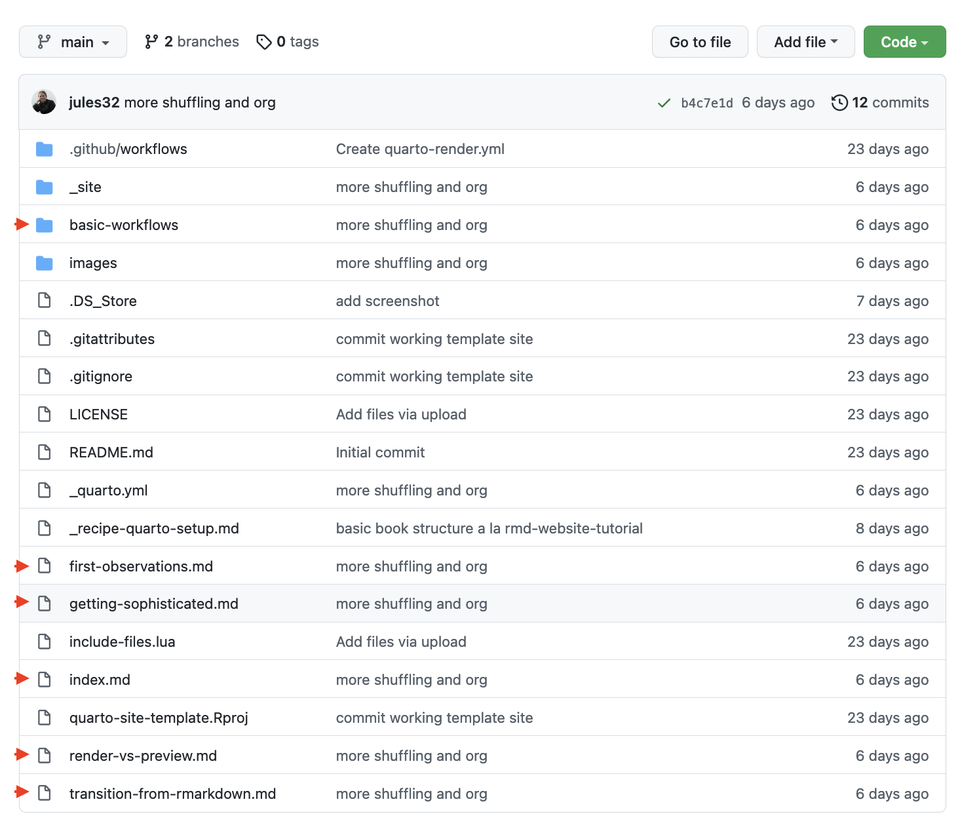
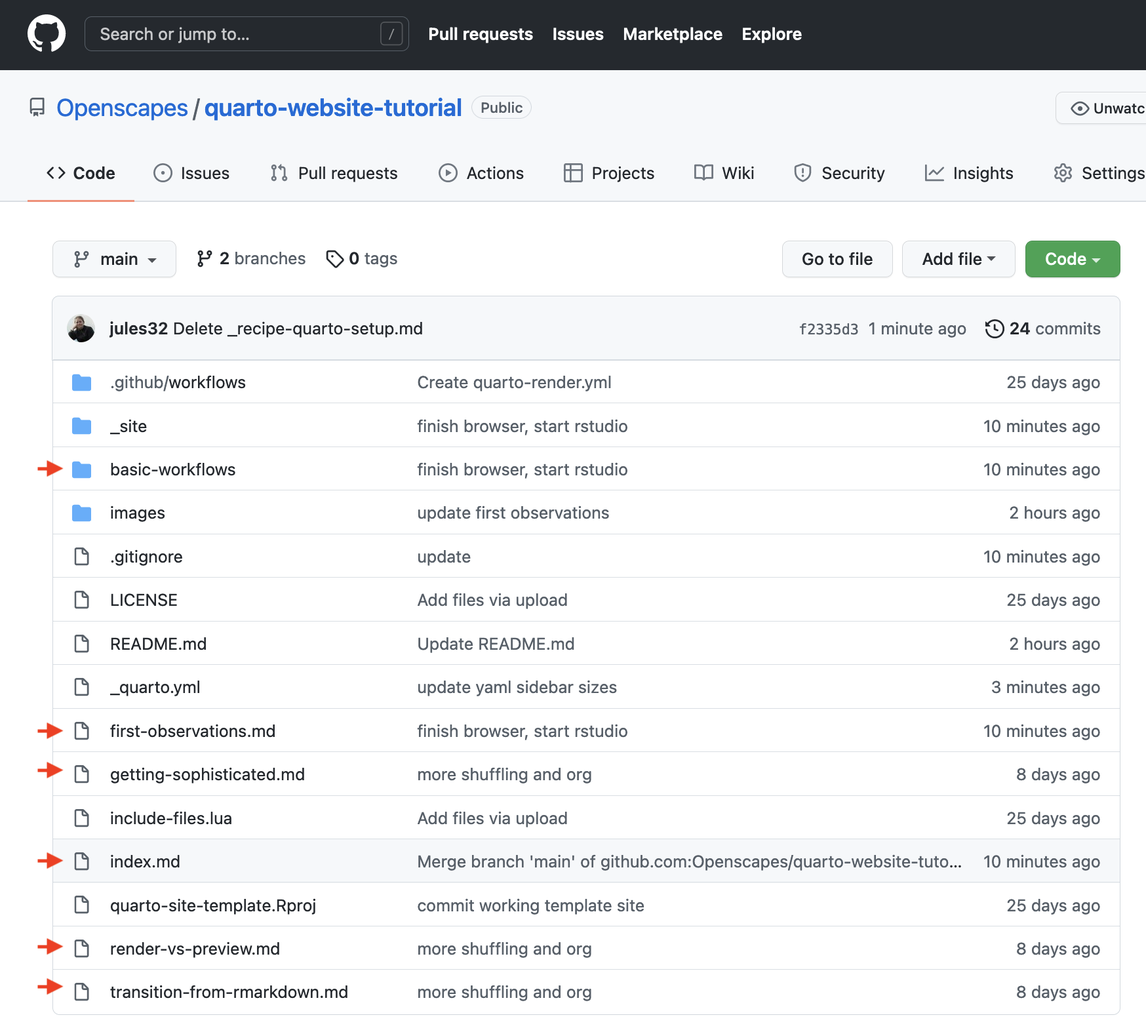
reshuffle org

diff --git a/_site/quarto-overview.html b/_site/quarto-overview.html
@@ -3,9 +3,7 @@
   <meta charset="utf-8">
   <meta name="generator" content="quarto-0.9.17">
   <meta name="viewport" content="width=device-width, initial-scale=1.0, user-scalable=yes">
-  <meta name="author" content="Openscapes">
-  <meta name="dcterms.date" content="2022-02-27">
-  <title>Making open-source documents with Quarto</title>
+  <title>Making open-source documents with Quarto - Quarto Overview</title>
   <style>
     code{white-space: pre-wrap;}
     span.smallcaps{font-variant: small-caps;}
@@ -21,7 +19,8 @@
   <script src="site_libs/quarto-search/autocomplete.umd.js"></script>
   <script src="site_libs/quarto-search/fuse.min.js"></script>
   <script src="site_libs/quarto-search/quarto-search.js"></script>
-  <link href="./first-observations.html" rel="next">
+  <link href="./basic-workflows/browser.html" rel="next">
+  <link href="./first-observations.html" rel="prev">
   <script src="site_libs/quarto-html/quarto.js"></script>
   <script src="site_libs/quarto-html/popper.min.js"></script>
   <script src="site_libs/quarto-html/tippy.umd.min.js"></script>
@@ -61,7 +60,7 @@
   <header id="quarto-header" class="headroom fixed-top">
   <nav class="quarto-secondary-nav" data-bs-toggle="collapse" data-bs-target="#quarto-sidebar" aria-controls="quarto-sidebar" aria-expanded="false" aria-label="Toggle sidebar navigation" onclick="if (window.quartoToggleHeadroom) { window.quartoToggleHeadroom(); }">
     <div class="container-fluid d-flex justify-content-between">
-      <h1 class="quarto-secondary-nav-title">Making open-source documents with Quarto</h1>
+      <h1 class="quarto-secondary-nav-title">Quarto Overview</h1>
       <button type="button" class="quarto-btn-toggle btn">
         <i class="bi bi-chevron-right"></i>
       </button>
@@ -92,7 +91,7 @@
     <ul class="list-unstyled mt-1">
         <li class="sidebar-item">
   <div class="sidebar-item-container"> 
-  <a href="./index.html" class="sidebar-item-text sidebar-link active">Welcome</a>
+  <a href="./index.html" class="sidebar-item-text sidebar-link">Welcome</a>
   </div>
 </li>
         <li class="sidebar-item">
@@ -102,7 +101,7 @@
 </li>
         <li class="sidebar-item">
   <div class="sidebar-item-container"> 
-  <a href="./quarto-overview.html" class="sidebar-item-text sidebar-link">Quarto Overview</a>
+  <a href="./quarto-overview.html" class="sidebar-item-text sidebar-link active">Quarto Overview</a>
   </div>
 </li>
         <li class="sidebar-item sidebar-item-section">
@@ -153,52 +152,49 @@
         <nav id="TOC" role="doc-toc">
 <h2 id="toc-title">On this page</h2>
 <ul>
-<li><a href="#welcome" class="nav-link active" data-scroll-target="#welcome">Welcome</a>
-<ul class="collapse">
-<li><a href="#example-quarto-websites" class="nav-link" data-scroll-target="#example-quarto-websites">Example Quarto websites</a>
-<ul class="collapse">
-<li><a href="#inspiration" class="nav-link" data-scroll-target="#inspiration">Inspiration</a></li>
-</ul></li>
-<li><a href="#about" class="nav-link" data-scroll-target="#about">About</a></li>
-</ul></li>
+<li><a href="#quarto-basic-workflow" class="nav-link active" data-scroll-target="#quarto-basic-workflow">Quarto basic workflow</a></li>
+<li><a href="#quarto.yml" class="nav-link" data-scroll-target="#quarto.yml"><code>_quarto.yml</code></a></li>
+<li><a href="#next-up-workflows" class="nav-link" data-scroll-target="#next-up-workflows">Next up: workflows</a></li>
 </ul>
-<div class="toc-actions"><div><i class="bi bi-github"></i></div><div class="action-links"><p><a href="https://github.com/openscapes/series/edit/main/index.md" class="toc-action">Edit this page</a></p><p><a href="https://github.com/openscapes/series/issues/new" class="toc-action">Report an issue</a></p></div></div></nav>
+<div class="toc-actions"><div><i class="bi bi-github"></i></div><div class="action-links"><p><a href="https://github.com/openscapes/series/edit/main/quarto-overview.md" class="toc-action">Edit this page</a></p><p><a href="https://github.com/openscapes/series/issues/new" class="toc-action">Report an issue</a></p></div></div></nav>
     </div>
 <!-- main -->
 <main class="content" id="quarto-document-content">
 <header id="title-block-header">
-<h1 class="title d-none d-lg-block display-7">Making open-source documents with Quarto</h1>
-<p class="subtitle lead">Create &amp; publish tutorials, onboarding docs, and much more</p>
-<p class="author">Openscapes</p>
-<p class="date">February 27, 2022</p>
+<h1 class="title d-none d-lg-block display-7">Quarto Overview</h1>
 </header>
 
-<section id="welcome" class="level1">
-<h1>Welcome</h1>
-<p>It’s possible to create beautiful documentation to share online with <a href="https://quarto.org">Quarto</a> that auto-updates with <a href="http://github.com">Github</a>. This is very new and incredibly cool. This tutorial is an example of a quarto website — it is a really powerful way to create and share tutorials, onboarding documentation, and so much more. You can communicate about science using the same reproducible workflow you and/or your colleagues use for analyses, whether or not you yourself write code.</p>
-<p>Creating websites with quarto can be done without knowing R, Python or HTML, CSS, etc, and that’s where we’ll start. However, Quarto integrates with these tools so you can make your websites as complex and beautiful as you like as you see examples and reuse and remix from others in the open movement. This tutorial borrows heavily from a lot of great tutorials and resources you should check out too – there are links throughout.</p>
-<section id="example-quarto-websites" class="level2">
-<h2 class="anchored" data-anchor-id="example-quarto-websites">Example Quarto websites</h2>
-<p>We so far have been using Quarto for documentation using Markdown and Jupyter Notebooks.</p>
-<ul>
-<li><a href="https://openscapes.github.io/series">Champions Lessons Series</a></li>
-<li><a href="https://openscapes.github.io/approach-guide/">Openscapes Approach Guide</a><br>
-</li>
-<li><a href="https://nasa-openscapes.github.io/2021-Cloud-Hackathon/">2021 NASA Cloud Hackathon</a></li>
-</ul>
-<p>See many more examples at the <a href="https://quarto.org/docs/gallery/">quarto gallery</a>!</p>
-<section id="inspiration" class="level3">
-<h3 class="anchored" data-anchor-id="inspiration">Inspiration</h3>
-<p>Are you making onboarding documentation? Check out <a href="https://thefaylab.github.io/lab-manual/">The Fay Lab Manual</a> for inspiration on structure - you could also start there and make it your own.</p>
+<p><a href="https://quarto.org">Quarto.org</a> has great documentation, including and <a href="https://quarto.org/docs/get-started/hello/jupyter.html">tutorials</a> that can help you get started using Jupyter, RStudio, VSCode and Editor. Here, we’ll introduce Quarto using our copy of this tutorial, and then show basic workflows using different tools: from the GitHub browser, RStudio, and Jupyter.</p>
+<section id="quarto-basic-workflow" class="level2">
+<h2 class="anchored" data-anchor-id="quarto-basic-workflow">Quarto basic workflow</h2>
+<p>Developing your quarto site will have the same basic workflow, no matter which tool you use to edit. It is very iterative.</p>
+<ol type="1">
+<li>Create content (text, code, images, etc) in a file. Supported files include <code>.md</code>, <code>.Rmd</code>, <code>.qmd</code>, <code>.ipynb</code>…</li>
+<li>Update <code>_quarto.yml</code> as needed (for example, if you’ve created a new file you’d like included in your site)</li>
+<li>Quarto Render individual files and/or the whole website (if editing from the browser this step will not be separate but combined with Step 5)</li>
+<li>Repeat, repeat, repeat</li>
+<li>Commit and push your website to GitHub, your updates will publish automatically! (if editing from the brower, only commit - no need to push)</li>
+<li>Repeat all of the above</li>
+</ol>
 </section>
+<section id="quarto.yml" class="level2">
+<h2 class="anchored" data-anchor-id="quarto.yml"><code>_quarto.yml</code></h2>
+<p>There is also a <code>_quarto.yml</code> file, which is the website’s configuration file. It is a directory of the order that the pages/chapters will be in. This is where you update the organization of your website, while you update the content of those pages in the specific file. If we compare side-by-side, you’ll see that the pages that appear on our website are listed there.</p>
+<div class="quarto-figure quarto-figure-center">
+<figure class="figure">
+<p><img src="images/quarto-yml-site-side-by-side.png" class="img-fluid figure-img" alt="_quarto.yml and website side-by-side" style="width:95.0%"></p>
+<p></p><figcaption aria-hidden="true" class="figure-caption"><code>_quarto.yml</code> and website side-by-side</figcaption><p></p>
+</figure>
+</div>
+<p>This type of file (<code>.yml</code> or <code>.yaml</code>) is written in YAML (“Yet Another Markup Language”). You’ll be able to shift the arrangement of webpages by reordering/adding/deleting them in the <code>_quarto.yml</code> file following the patterns you see in this example. As you modify <code>_quarto.yml</code>, the most important thing to know is that <strong>spacing matters</strong>. Pay attention to whether text is indented by one, two, four, or other spaces, and make sure you follow it; if your site is not looking as expected it is likely a silent error in your YAML. Some text editors like RStudio provide debugging support for YAML and are highly recommended to save you hours of debugging time.</p>
+<p>Note that there are multiple ways in the <code>_quarto.yml</code> for you to include a file in your website.</p>
 </section>
-<section id="about" class="level2">
-<h2 class="anchored" data-anchor-id="about">About</h2>
-<p><a href="https://openscapes.org">Openscapes</a> is about better science for future us. We help researchers reimagine data analysis, develop modern skills that are of immediate value to them, and cultivate collaborative and inclusive research teams as part of the broader global open movement.</p>
-<p>We’re developing this tutorial to help folks of different technical skills use <a href="https://quarto.org">quarto</a> for documentation and tutorial building. This tutorial was originally created for two different audiences: <a href="https://nasa-openscapes.github.io">NASA-Openscapes</a> researcher support engineers and communications directors at organizations promoting open science.</p>
+<section id="next-up-workflows" class="level2">
+<h2 class="anchored" data-anchor-id="next-up-workflows">Next up: workflows</h2>
+<p>In the next sections we’ll see what this workflow looks like using different tools for editing your files. We’ll start off from the browser so you don’t need to install any additional software, however this approach is very limited and you will soon outgrow its capabilities. See all the tools that are supported at <a href="https://quarto.org/docs/get-started/" class="uri">https://quarto.org/docs/get-started/</a>.</p>
+<p><strong>If you don’t already have a workflow and to edit files and sync to GitHub from your computer, I recommend RStudio.</strong> You don’t need to know R to use RStudio, and it has powerful editor features that make for happy workflows.</p>
 
 
-</section>
 </section>
 </main> <!-- /main -->
 <script type="application/javascript">
@@ -376,10 +372,13 @@ window.document.addEventListener("DOMContentLoaded", function (event) {
 </script>
 <nav class="page-navigation">
   <div class="nav-page nav-page-previous">
+      <a href="./first-observations.html" class="pagination-link">
+        <i class="bi bi-arrow-left-short"></i> <span class="nav-page-text">First Observations</span>
+      </a>          
   </div>
   <div class="nav-page nav-page-next">
-      <a href="./first-observations.html" class="pagination-link">
-        <span class="nav-page-text">First Observations</span> <i class="bi bi-arrow-right-short"></i>
+      <a href="./basic-workflows/browser.html" class="pagination-link">
+        <span class="nav-page-text">From the Browser</span> <i class="bi bi-arrow-right-short"></i>
       </a>
   </div>
 </nav>

diff --git a/_site/first-observations.html b/_site/first-observations.html
@@ -3,7 +3,7 @@
   <meta charset="utf-8">
   <meta name="generator" content="quarto-0.9.17">
   <meta name="viewport" content="width=device-width, initial-scale=1.0, user-scalable=yes">
-  <title>Making open-source documents with Quarto - First Observations</title>
+  <title>Making open-source documents with Quarto - First Observations &amp; Setup</title>
   <style>
     code{white-space: pre-wrap;}
     span.smallcaps{font-variant: small-caps;}
@@ -82,7 +82,7 @@
   <script src="site_libs/quarto-search/autocomplete.umd.js"></script>
   <script src="site_libs/quarto-search/fuse.min.js"></script>
   <script src="site_libs/quarto-search/quarto-search.js"></script>
-  <link href="./basic-workflows/index.html" rel="next">
+  <link href="./quarto-overview.html" rel="next">
   <link href="./index.html" rel="prev">
   <script src="site_libs/quarto-html/quarto.js"></script>
   <script src="site_libs/quarto-html/popper.min.js"></script>
@@ -123,7 +123,7 @@
   <header id="quarto-header" class="headroom fixed-top">
   <nav class="quarto-secondary-nav" data-bs-toggle="collapse" data-bs-target="#quarto-sidebar" aria-controls="quarto-sidebar" aria-expanded="false" aria-label="Toggle sidebar navigation" onclick="if (window.quartoToggleHeadroom) { window.quartoToggleHeadroom(); }">
     <div class="container-fluid d-flex justify-content-between">
-      <h1 class="quarto-secondary-nav-title">First Observations</h1>
+      <h1 class="quarto-secondary-nav-title">First Observations &amp; Setup</h1>
       <button type="button" class="quarto-btn-toggle btn">
         <i class="bi bi-chevron-right"></i>
       </button>
@@ -162,6 +162,11 @@
   <a href="./first-observations.html" class="sidebar-item-text sidebar-link active">First Observations</a>
   </div>
 </li>
+        <li class="sidebar-item">
+  <div class="sidebar-item-container"> 
+  <a href="./quarto-overview.html" class="sidebar-item-text sidebar-link">Quarto Overview</a>
+  </div>
+</li>
         <li class="sidebar-item sidebar-item-section">
     <div class="sidebar-item-container"> 
         <a class="sidebar-item-text sidebar-link text-start collapsed" data-bs-toggle="collapse" data-bs-target="#quarto-sidebar-section-basic-workflows" aria-expanded="false">Basic Workflows</a>
@@ -170,11 +175,6 @@
       </a>
     </div>
     <ul id="quarto-sidebar-section-basic-workflows" class="collapse list-unstyled sidebar-section depth1 ">  
-        <li class="sidebar-item">
-  <div class="sidebar-item-container"> 
-  <a href="./basic-workflows/index.html" class="sidebar-item-text sidebar-link">Quarto Overview</a>
-  </div>
-</li>
         <li class="sidebar-item">
   <div class="sidebar-item-container"> 
   <a href="./basic-workflows/browser.html" class="sidebar-item-text sidebar-link">From the Browser</a>
@@ -190,16 +190,21 @@
   <a href="./basic-workflows/jupyterhub.html" class="sidebar-item-text sidebar-link">From JupyterHub</a>
   </div>
 </li>
+        <li class="sidebar-item">
+  <div class="sidebar-item-container"> 
+  <a href="./basic-workflows/getting-sophisticated.html" class="sidebar-item-text sidebar-link">Getting Sophisticated</a>
+  </div>
+</li>
     </ul>
   </li>
         <li class="sidebar-item">
   <div class="sidebar-item-container"> 
-  <a href="./render-vs-preview.html" class="sidebar-item-text sidebar-link">Render vs.&nbsp;Preview</a>
+  <a href="./render-vs-preview.html" class="sidebar-item-text sidebar-link">Render vs Preview</a>
   </div>
 </li>
         <li class="sidebar-item">
   <div class="sidebar-item-container"> 
-  <a href="./getting-sophisticated.html" class="sidebar-item-text sidebar-link">Getting Sophisticated</a>
+  <a href="./transition-from-rmarkdown.html" class="sidebar-item-text sidebar-link">Transition from Rmd</a>
   </div>
 </li>
     </ul>
@@ -214,7 +219,6 @@
 <ul class="collapse">
 <li><a href="#the-website-itself" class="nav-link" data-scroll-target="#the-website-itself">The website itself</a></li>
 <li><a href="#the-websites-repo" class="nav-link" data-scroll-target="#the-websites-repo">The website’s repo</a></li>
-<li><a href="#quarto.yml" class="nav-link" data-scroll-target="#quarto.yml"><code>_quarto.yml</code></a></li>
 </ul></li>
 <li><a href="#fork-to-your-account" class="nav-link" data-scroll-target="#fork-to-your-account">Fork to your account</a>
 <ul class="collapse">
@@ -228,7 +232,7 @@
 <!-- main -->
 <main class="content" id="quarto-document-content">
 <header id="title-block-header">
-<h1 class="title d-none d-lg-block display-7">First Observations</h1>
+<h1 class="title d-none d-lg-block display-7">First Observations &amp; Setup</h1>
 </header>
 
 <p>With this tutorial, we have a working example website that we will explore together. We’ll learn a few rules and look for patterns to get an understanding of what things do to help you start customizing and making it your own. And you can continue to use this website as a reference after the tutorial, along with <a href="https://quarto.org"><strong>Quarto</strong></a> documentation. (Sidenote: this is actually a Quarto website that looks like a book - books are better for cross-referencing chapters, figures, equations, and references so that might be an option for you to explore too.)</p>
@@ -241,9 +245,10 @@
 <ul>
 <li>Welcome</li>
 <li>First Observations</li>
+<li>Quarto Overview</li>
 <li>Basic Workflows</li>
 <li>Render vs.&nbsp;Preview</li>
-<li>Getting Sophisticated</li>
+<li>Transition from RMarkdown</li>
 </ul>
 <p>Most of these are pages, but you’ll see that “Basic Workflows” is a folder with additional pages inside.</p>
 </section>
@@ -257,17 +262,6 @@
 <p></p><figcaption aria-hidden="true" class="figure-caption">quarto-website-tutorial GitHub repository with files for webpages marked with red arrows</figcaption><p></p>
 </figure>
 </div>
-</section>
-<section id="quarto.yml" class="level3">
-<h3 class="anchored" data-anchor-id="quarto.yml"><code>_quarto.yml</code></h3>
-<p>There is also a <code>_quarto.yml</code> file, which is the website’s configuration file. It is a directory of the order that the pages/chapters will be in. This is where you update the organization of your website, while you update the content of those pages in the specific file. If we compare side-by-side, you’ll see that the pages that appear on our website are listed there.</p>
-<div class="quarto-figure quarto-figure-center">
-<figure class="figure">
-<p><img src="images/quarto-yml-site-side-by-side.png" class="img-fluid figure-img" style="width:95.0%"></p>
-<p></p><figcaption aria-hidden="true" class="figure-caption"><code>_quarto.yml</code> and website side-by-side</figcaption><p></p>
-</figure>
-</div>
-<p>This type of file (<code>.yml</code> or <code>.yaml</code>) is written in YAML (“Yet Another Markup Language”). You’ll be able to shift the arrangement of webpages by reordering/adding/deleting them in the <code>_quarto.yml</code> file following the patterns you see in this example. As you modify <code>_quarto.yml</code>, the most important thing to know is that <strong>spacing matters</strong>. Pay attention to whether text is indented by one, two, four, or other spaces, and make sure you follow it; if your site is not looking as expected it is likely a silent error in your YAML. Some text editors like RStudio provide debugging support for YAML and are highly recommended to save you hours of debugging time.</p>
 </section>
 </section>
 <section id="fork-to-your-account" class="level2">
@@ -545,7 +539,7 @@ window.document.addEventListener("DOMContentLoaded", function (event) {
       </a>          
   </div>
   <div class="nav-page nav-page-next">
-      <a href="./basic-workflows/index.html" class="pagination-link">
+      <a href="./quarto-overview.html" class="pagination-link">
         <span class="nav-page-text">Quarto Overview</span> <i class="bi bi-arrow-right-short"></i>
       </a>
   </div>

diff --git a/first-observations.md b/first-observations.md
@@ -1,5 +1,5 @@
 ---
-title: First Observations
+title: First Observations & Setup
 ---
 
 With this tutorial, we have a working example website that we will explore together. We'll learn a few rules and look for patterns to get an understanding of what things do to help you start customizing and making it your own. And you can continue to use this website as a reference after the tutorial, along with [**Quarto**](https://quarto.org) documentation. (Sidenote: this is actually a Quarto website that looks like a book - books are better for cross-referencing chapters, figures, equations, and references so that might be an option for you to explore too.)
@@ -14,9 +14,10 @@ We'll start our exploration online looking at the website architecture and GitHu
 
 -   Welcome
 -   First Observations
+-   Quarto Overview
 -   Basic Workflows
 -   Render vs. Preview
--   Getting Sophisticated
+-   Transition from RMarkdown
 
 Most of these are pages, but you'll see that "Basic Workflows" is a folder with additional pages inside.
 
@@ -27,14 +28,6 @@ Let's go to this website's GitHub repository (also called a "repo"), [**https://
 **Have a look at the filenames.** We can recognize the names of the webpages we've seen above, they have red arrows marking them. You'll see the "basic-workflows" folder and the rest in this site are `.md` files, which are plain Markdown files. `index.md` is the home page.
 
 ![quarto-website-tutorial GitHub repository with files for webpages marked with red arrows](images/quarto-files-github.png){fig-alt="Screenshot of files on GitHub with red arrows identifying the files that we saw in the left sidebar" fig-align="center" width="80%"}
-
-### `_quarto.yml`
-
-There is also a `_quarto.yml` file, which is the website's configuration file. It is a directory of the order that the pages/chapters will be in. This is where you update the organization of your website, while you update the content of those pages in the specific file. If we compare side-by-side, you'll see that the pages that appear on our website are listed there.
-
-![`_quarto.yml` and website side-by-side](images/quarto-yml-site-side-by-side.png){fig-align="center" width="95%"}
-
-This type of file (`.yml` or `.yaml`) is written in YAML ("Yet Another Markup Language"). You'll be able to shift the arrangement of webpages by reordering/adding/deleting them in the `_quarto.yml` file following the patterns you see in this example. As you modify `_quarto.yml`, the most important thing to know is that **spacing matters**. Pay attention to whether text is indented by one, two, four, or other spaces, and make sure you follow it; if your site is not looking as expected it is likely a silent error in your YAML. Some text editors like RStudio provide debugging support for YAML and are highly recommended to save you hours of debugging time.
 
 ## Fork to your account
 
@@ -113,7 +106,7 @@ Now click on the Settings tab in the top right of your repository. On the left s
 
 ![](images/github-source-gh-pages.png){fig-align="center" width="95%"}
 
-## Confirm your website is published  {#confirm}
+## Confirm your website is published {#confirm}
 
 To confirm this, go back to your main repository page. You'll now see an orange dot showing that the GitHub Action is beginning to publish the page.
 

diff --git a/quarto-overview.md b/quarto-overview.md
@@ -1,0 +1,32 @@
+---
+title: Quarto Overview
+---
+
+[Quarto.org](https://quarto.org) has great documentation, including and [tutorials](https://quarto.org/docs/get-started/hello/jupyter.html) that can help you get started using Jupyter, RStudio, VSCode and Editor. Here, we'll introduce Quarto using our copy of this tutorial, and then show basic workflows using different tools: from the GitHub browser, RStudio, and Jupyter.
+
+## Quarto basic workflow
+
+Developing your quarto site will have the same basic workflow, no matter which tool you use to edit. It is very iterative.
+
+1.  Create content (text, code, images, etc) in a file. Supported files include `.md`, `.Rmd`, `.qmd`, `.ipynb`...
+2.  Update `_quarto.yml` as needed (for example, if you've created a new file you'd like included in your site)
+3.  Quarto Render individual files and/or the whole website (if editing from the browser this step will not be separate but combined with Step 5)
+4.  Repeat, repeat, repeat
+5.  Commit and push your website to GitHub, your updates will publish automatically! (if editing from the brower, only commit - no need to push)
+6.  Repeat all of the above
+
+## `_quarto.yml`
+
+There is also a `_quarto.yml` file, which is the website's configuration file. It is a directory of the order that the pages/chapters will be in. This is where you update the organization of your website, while you update the content of those pages in the specific file. If we compare side-by-side, you'll see that the pages that appear on our website are listed there.
+
+![`_quarto.yml` and website side-by-side](images/quarto-yml-site-side-by-side.png){alt="_quarto.yml and website side-by-side" fig-align="center" width="95%"}
+
+This type of file (`.yml` or `.yaml`) is written in YAML ("Yet Another Markup Language"). You'll be able to shift the arrangement of webpages by reordering/adding/deleting them in the `_quarto.yml` file following the patterns you see in this example. As you modify `_quarto.yml`, the most important thing to know is that **spacing matters**. Pay attention to whether text is indented by one, two, four, or other spaces, and make sure you follow it; if your site is not looking as expected it is likely a silent error in your YAML. Some text editors like RStudio provide debugging support for YAML and are highly recommended to save you hours of debugging time.
+
+Note that there are multiple ways in the `_quarto.yml` for you to include a file in your website.
+
+## Next up: workflows
+
+In the next sections we'll see what this workflow looks like using different tools for editing your files. We'll start off from the browser so you don't need to install any additional software, however this approach is very limited and you will soon outgrow its capabilities. See all the tools that are supported at <https://quarto.org/docs/get-started/>.
+
+**If you don't already have a workflow and to edit files and sync to GitHub from your computer, I recommend RStudio.** You don't need to know R to use RStudio, and it has powerful editor features that make for happy workflows.

diff --git a/index.md b/index.md
@@ -8,13 +8,13 @@ slug: index
 ---
 
 
-# Welcome {#welcome}
+# Welcome {#welcome} 
 
 It's possible to create beautiful documentation to share online with [Quarto](https://quarto.org) that auto-updates with [Github](http://github.com). This is very new and incredibly cool. This tutorial is an example of a quarto website — it is a really powerful way to create and share tutorials, onboarding documentation, and so much more. You can communicate about science  using the same reproducible workflow you and/or your colleagues use for analyses, whether or not you yourself write code. 
 
 Creating websites with quarto can be done without knowing R, Python or HTML, CSS, etc, and that's where we'll start. However, Quarto integrates with these tools so you can make your websites as complex and beautiful as you like as you see examples and reuse and remix from others in the open movement. This tutorial borrows heavily from a lot of great tutorials and resources you should check out too -- there are links throughout. 
 
-## Example quarto sites
+## Example Quarto websites
 
 We so far have been using Quarto for documentation using Markdown and Jupyter Notebooks.
 
@@ -32,4 +32,4 @@ Are you making onboarding documentation? Check out [The Fay Lab Manual](https://
 
 [Openscapes](https://openscapes.org) is about better science for future us. We help researchers reimagine data analysis, develop modern skills that are of immediate value to them, and cultivate collaborative and inclusive research teams as part of the broader global open movement.
 
-We're developing this tutorial to help folks of different technical skills use [quarto](https://quarto.org) for documentation and tutorial building. This tutorial was originally created for two different audiences: [NASA-Openscapes](https://nasa-openscapes.github.io) researcher support engineers and communications directors at organizations promoting open science. The structure follows an earlier tutorial [Making free websites with RStudio's RMarkdown](https://jules32.github.io/rmarkdown-website-tutorial/index.html).
+We're developing this tutorial to help folks of different technical skills use [quarto](https://quarto.org) for documentation and tutorial building. This tutorial was originally created for two different audiences: [NASA-Openscapes](https://nasa-openscapes.github.io) researcher support engineers and communications directors at organizations promoting open science. 
